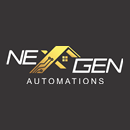
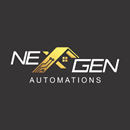
LG Content Store build: Nexgen Hotels identity, BACK exit, pointer focus, offline notice
The build submitted to LG Seller Lounge QA on 2026-10-27, after testing on
the office LG TV against LG's self-check list v5.0.

- Store identity: app id com.wattinventive.nexgenhotels, title "Nexgen
  Hotels", splash, launcher icons. largeIcon (130 px, used by the webOS 22
  launcher) showed only "NE" — both icons are now downscaled from the 512
  store icon. build-ipk.ps1 reads the app id from appinfo.json.
- No "coming soon" placeholders on LG (SHOW_COMING_SOON): LG QA fails buttons
  that do nothing. Netflix / Google Cast / Explore Hotel hidden; the Live TV
  tile becomes Feedback.
- BACK on the root screen calls platformBack(): with disableBackHistoryAPI the
  system did nothing, and LG requires the exit popup (webOS 6+) / Home (5.0).
- Magic Remote: the control under the pointer takes focus, so hover shows the
  D-pad ring and the arrows continue from there (text fields excluded).
- WiFi off/on: React Query paused fetches on the browser's offline event, so
  Food Order said "No dishes in this category yet." instead of a network
  error. networkMode 'always' (+ explicit refetchOnReconnect, which 'always'
  turns off) lets screens show their error state and reload on reconnect; the
  TV shows a persistent "No internet connection" card and "Back online.";
  the top bar keeps the cached greeting on a failed refetch.

Changed region(s): [[0.0308, 0.3385, 0.9538, 0.6462], [0.4615, 0.5231, 0.5231, 0.5538]]

diff --git a/src/components/Toast/ToastHost.tsx b/src/components/Toast/ToastHost.tsx
@@ -1,6 +1,7 @@
 import React, {useCallback, useEffect, useRef, useState} from 'react';
 import {Animated, Platform, Text, View} from 'react-native';
 import Icon from 'react-native-vector-icons/Ionicons';
+import {onlineManager} from '@tanstack/react-query';
 // Straight from the leaf module, not the `../TvGlass` barrel: that barrel also
 // re-exports TvChrome, which imports `toast` from here — an import cycle the
 // bundler would have to break at runtime. TvGlass.tsx itself imports nothing
@@ -8,7 +9,7 @@ import Icon from 'react-native-vector-icons/Ionicons';
 import {DS, FONT, GLASS_BLUR, GlassSheen, SHADOW} from '../TvGlass/TvGlass';
 import {useTheme} from '../../theme';
 import {IS_TV} from '../../utils/responsive';
-import {subscribeToToasts, type ToastItem} from './toast';
+import {subscribeToToasts, toast, type ToastItem} from './toast';
 
 const MAX_VISIBLE = 3;
 
@@ -38,7 +39,52 @@ const TV_ACCENT: Record<ToastItem['kind'], {solid: string; tint: string; edge: s
   info: {solid: DS.gold, tint: 'rgba(212,180,131,0.20)', edge: 'rgba(212,180,131,0.55)'},
 };
 
-function ToastCard({item, onDone}: {item: ToastItem; onDone: (id: number) => void}) {
+/**
+ * The TV's "no internet" notice. A toast-shaped card, but it stays up for as
+ * long as the network is gone: a timed toast would leave the guest staring at
+ * error states with nothing saying why once it faded.
+ */
+const OFFLINE_NOTICE: ToastItem = {
+  id: -1,
+  kind: 'error',
+  message: "No internet connection. Check the TV's network — the app reconnects by itself.",
+  duration: 0,
+};
+
+/**
+ * Online/offline as React Query hears it (window online/offline in the web
+ * builds; native never goes offline here). TV only — a phone has its own
+ * system indicator. Says "Back online" when the network returns, because the
+ * screens reload on their own and the guest should know that is why.
+ */
+function useTvOffline(): boolean {
+  const [offline, setOffline] = useState(() => IS_TV && !onlineManager.isOnline());
+  useEffect(() => {
+    if (!IS_TV) {
+      return;
+    }
+    return onlineManager.subscribe(online => {
+      setOffline(!online);
+      if (online) {
+        toast.success('Back online.');
+      }
+    });
+  }, []);
+  return offline;
+}
+
+function ToastCard({
+  item,
+  onDone,
+  persistent = false,
+  icon,
+}: {
+  item: ToastItem;
+  onDone?: (id: number) => void;
+  /** Stays until unmounted instead of fading after `item.duration`. */
+  persistent?: boolean;
+  icon?: string;
+}) {
   const {theme, scheme} = useTheme();
   // Core Animated only — reanimated does not initialise reliably in the
   // webpack/webOS bundle (see Skeleton.tsx).
@@ -51,13 +97,16 @@ function ToastCard({item, onDone}: {item: ToastItem; onDone: (id: number) => voi
       Animated.timing(opacity, {toValue: 1, duration: 180, useNativeDriver: useNative}),
       Animated.timing(translate, {toValue: 0, duration: 180, useNativeDriver: useNative}),
     ]).start();
+    if (persistent) {
+      return;
+    }
     const timer = setTimeout(() => {
       Animated.timing(opacity, {toValue: 0, duration: 220, useNativeDriver: useNative}).start(
-        () => onDone(item.id),
+        () => onDone?.(item.id),
       );
     }, item.duration);
     return () => clearTimeout(timer);
-  }, [item, opacity, translate, onDone]);
+  }, [item, opacity, translate, onDone, persistent]);
 
   const tv = TV_ACCENT[item.kind];
   const accent = IS_TV
@@ -140,10 +189,10 @@ function ToastCard({item, onDone}: {item: ToastItem; onDone: (id: number) => voi
             borderWidth: 1,
             borderColor: tv.edge,
           }}>
-          <Icon name={KIND_ICON[item.kind]} size={17} color={accent} />
+          <Icon name={icon ?? KIND_ICON[item.kind]} size={17} color={accent} />
         </View>
       ) : (
-        <Icon name={KIND_ICON[item.kind]} size={20} color={accent} />
+        <Icon name={icon ?? KIND_ICON[item.kind]} size={20} color={accent} />
       )}
       <Text
         style={{
@@ -168,6 +217,7 @@ function ToastCard({item, onDone}: {item: ToastItem; onDone: (id: number) => voi
  */
 export function ToastHost() {
   const [items, setItems] = useState<ToastItem[]>([]);
+  const offline = useTvOffline();
 
   useEffect(
     () =>
@@ -182,7 +232,7 @@ export function ToastHost() {
     [],
   );
 
-  if (items.length === 0) {
+  if (items.length === 0 && !offline) {
     return null;
   }
 
@@ -200,6 +250,7 @@ export function ToastHost() {
         right: 20,
         zIndex: 1000,
       }}>
+      {offline ? <ToastCard item={OFFLINE_NOTICE} persistent icon="cloud-offline-outline" /> : null}
       {items.map(item => (
         <ToastCard key={item.id} item={item} onDone={remove} />
       ))}

diff --git a/src/services/webosRemote.web.ts b/src/services/webosRemote.web.ts
@@ -10,8 +10,9 @@
  * Handled keys:
  *   37/38/39/40  arrows  -> spatial focus move
  *   13           OK      -> left to the browser (activates the focused element)
- *   461 / 10009  Back    -> pop one screen. At the root: webOS closes the app;
- *                           Tizen swallows it (see the keydown handler).
+ *   461 / 10009  Back    -> pop one screen. At the root: webOS platformBack()
+ *                           (exit popup / Home); Tizen swallows it (see the
+ *                           keydown handler).
  *
  * Arrows, OK and Back reach a Tizen web app without `tvinputdevice.registerKey`;
  * only media / colour keys need registering.
@@ -30,6 +31,17 @@ const KEY_OK = 13;
 const KEY_BACK_WEBOS = 461;
 /** Samsung Tizen remote's Back button ("Return"). */
 const KEY_BACK_TIZEN = 10009;
+
+/**
+ * webOSTV.js's `webOS.platformBack()`, without bundling the library — it only
+ * forwards to the WebAppManager bridge, exactly like this.
+ */
+function platformBack(): void {
+  const palm = (window as unknown as {PalmSystem?: {platformBack?: () => void}}).PalmSystem;
+  if (palm && palm.platformBack) {
+    palm.platformBack();
+  }
+}
 
 type Direction = 'left' | 'up' | 'right' | 'down';
 
@@ -361,6 +373,24 @@ export function installWebOSRemote(): void {
     true,
   );
 
+  // Magic Remote pointer: the control under the cursor takes focus, so it shows
+  // the same ring the D-pad gives (LG self-check "Mouse Over/Focus") and the
+  // arrow keys carry on from where the pointer left off. Text fields are left
+  // alone — focusing one opens the webOS on-screen keyboard.
+  document.addEventListener('mouseover', event => {
+    const target = event.target instanceof Element ? event.target : null;
+    const control = target?.closest<HTMLElement>(FOCUSABLE_SELECTOR);
+    if (
+      !control ||
+      control === document.activeElement ||
+      control.matches('input, textarea, select') ||
+      !isVisible(control)
+    ) {
+      return;
+    }
+    control.focus({preventScroll: true});
+  });
+
   document.addEventListener(
     'keydown',
     event => {
@@ -372,12 +402,15 @@ export function installWebOSRemote(): void {
         // Priority 2: pop the navigator (React Navigation is not wired to
         // browser history — history.back() would exit the app from anywhere).
         // At the root with nothing open:
-        //  - webOS: let the press through; webOS closes the app, which is what
-        //    LG expects from Back.
+        //  - webOS: platformBack(). appinfo sets disableBackHistoryAPI, so the
+        //    system does nothing on its own — LG requires the entry screen to
+        //    show the exit popup (webOS 6+) or open Home (5.0), and
+        //    platformBack() is what triggers that platform behaviour.
         //  - Tizen: swallow it. In a hotel the app IS the TV's home screen, so
         //    Back at the root must not leave it.
-        if (closeTopModal() || goBackIfPossible() || IS_TIZEN) {
-          event.preventDefault();
+        event.preventDefault();
+        if (!closeTopModal() && !goBackIfPossible() && !IS_TIZEN) {
+          platformBack();
         }
       }
 

diff --git a/src/screens/Home/TvDashboardScreen.tsx b/src/screens/Home/TvDashboardScreen.tsx
@@ -39,6 +39,7 @@ import {CurtainControl} from './components/CurtainControl';
 import {useAuth} from '../../store/AuthContext';
 import {useTvPresence} from '../../store/TvPresenceContext';
 import {getApiErrorMessage} from '../../utils/errorHandler';
+import {SHOW_COMING_SOON} from '../../utils/responsive';
 import type {RoomDevice} from '../../models/device.model';
 import type {HomeStackParamList} from '../../navigation/types';
 
@@ -364,7 +365,9 @@ export function TvDashboardScreen({navigation}: Props) {
               <Text style={{color: DS.text2, fontSize: 13, marginTop: 6, fontFamily: FONT}}>
                 We are at your service
               </Text>
-              {/* spec PRIMARY BUTTON: gold bg, white text, 56 → 37 high */}
+              {/* spec PRIMARY BUTTON: gold bg, white text, 56 → 37 high.
+                  Still a placeholder, so not on LG (see SHOW_COMING_SOON). */}
+              {SHOW_COMING_SOON ? (
               <TvPressable
                 onPress={comingSoon}
                 label="Explore hotel (coming soon)"
@@ -391,6 +394,7 @@ export function TvDashboardScreen({navigation}: Props) {
                 </Text>
                 <Icon name="chevron-forward" size={14} color={DS.text} style={{marginLeft: 6}} />
               </TvPressable>
+              ) : null}
             </View>
           </View>
 
@@ -467,7 +471,7 @@ export function TvDashboardScreen({navigation}: Props) {
                 icon="sunny-outline"
                 onPress={() => navigation.navigate('MyDay')}
               />
-            ) : (
+            ) : SHOW_COMING_SOON ? (
               <Tile
                 title="Live TV"
                 subtitle="Watch your favourite"
@@ -475,6 +479,15 @@ export function TvDashboardScreen({navigation}: Props) {
                 icon="tv-outline"
                 soon
                 onPress={comingSoon}
+              />
+            ) : (
+              // LG: a real feature keeps the 4 × 2 grid whole instead of a
+              // placeholder its store QA would fail (see SHOW_COMING_SOON).
+              <Tile
+                title="Feedback"
+                subtitle="Tell us about your stay"
+                icon="chatbubble-ellipses-outline"
+                onPress={() => navigation.navigate('Feedback')}
               />
             )}
           </View>

diff --git a/src/components/TvGlass/TvChrome.tsx b/src/components/TvGlass/TvChrome.tsx
@@ -10,6 +10,7 @@ import {NoSmokingIcon} from './RoomIcons';
 import {useDashboardViewModel} from '../../viewmodels';
 import {useFoodOrder} from '../../store/FoodOrderContext';
 import {getDisplayName} from '../../models/user.model';
+import {SHOW_COMING_SOON} from '../../utils/responsive';
 
 import nexgenLogo from '../../assets/tv/nexgen-logo.png';
 
@@ -199,14 +200,20 @@ export function TvTopBar({onMenu}: {onMenu?: () => void}) {
           label="View Bill"
           onPress={() => rootNavigate('Home', {screen: 'ViewBill'})}
         />
-        <TopChip iconNode={<NetflixIcon />} label="Netflix" onPress={comingSoon} />
-        <TopChip iconNode={<CastIcon />} label="Google Cast" onPress={comingSoon} />
+        {SHOW_COMING_SOON ? (
+          <>
+            <TopChip iconNode={<NetflixIcon />} label="Netflix" onPress={comingSoon} />
+            <TopChip iconNode={<CastIcon />} label="Google Cast" onPress={comingSoon} />
+          </>
+        ) : null}
       </View>
 
       <View style={{flex: 1, alignItems: 'center'}}>
         {dash.isLoading ? (
           <ActivityIndicator color={DS.gold} />
-        ) : dash.profileError ? (
+        ) : dash.profileError && !dash.user ? (
+          // Only when there is no greeting to show: a refetch that fails while
+          // the TV is offline keeps the cached guest (the offline notice says why).
           <Text style={{color: DS.danger, fontSize: 13, fontWeight: '600', fontFamily: FONT}}>
             Could not load profile
           </Text>

diff --git a/src/services/queryClient.ts b/src/services/queryClient.ts
@@ -1,5 +1,22 @@
 import {QueryClient} from '@tanstack/react-query';
 
+/**
+ * `networkMode: 'always'` — never pause on the browser's offline flag.
+ *
+ * In the web (TV) builds React Query listens to window online/offline, and in
+ * its default 'online' mode a fetch started while offline is PAUSED: not
+ * loading, not an error, no data. Every screen read that as "nothing here" —
+ * Food Order said "No dishes in this category yet." with the TV's WiFi off, so
+ * the guest blamed the menu, not the network (LG QA unplugs the network). Now
+ * the request runs, fails, and the screen shows its own error state ("No
+ * internet connection…" + Try again), and `refetchOnReconnect` reloads it the
+ * moment the network is back — set explicitly, because 'always' turns its
+ * default off (query-core: `refetchOnReconnect = networkMode !== 'always'`).
+ * A paused mutation (laundry order, facility
+ * booking, feedback) would sit "sending" until the network returned, so
+ * mutations fail fast too. Native builds never see an offline event, so
+ * nothing changes there.
+ */
 export const queryClient = new QueryClient({
   defaultOptions: {
     queries: {
@@ -7,9 +24,12 @@ export const queryClient = new QueryClient({
       staleTime: 30_000,
       gcTime: 5 * 60_000,
       refetchOnWindowFocus: false,
+      networkMode: 'always',
+      refetchOnReconnect: true,
     },
     mutations: {
       retry: 0,
+      networkMode: 'always',
     },
   },
 });

diff --git a/src/utils/responsive.ts b/src/utils/responsive.ts
@@ -39,6 +39,15 @@ export const IS_TV: boolean = Platform.isTV === true || IS_WEBOS || IS_TIZEN;
  */
 export const IS_WEB_BUILD: boolean = Platform.OS === 'web';
 
+/**
+ * Whether the TV shows its "coming soon" placeholders (Netflix, Google Cast,
+ * Explore Hotel, Live TV). Not on LG: the webOS build ships through the LG
+ * Content Store, whose QA fails any button that does nothing ("all UI buttons
+ * work properly", self-check 1.4) — and LG TVs have no Google Cast at all.
+ * Samsung and Android TV keep them for the client's presentation.
+ */
+export const SHOW_COMING_SOON: boolean = !IS_WEBOS;
+
 export type DeviceType = 'phone' | 'tablet' | 'tv';
 
 // Baseline device width the design tokens were authored against.

diff --git a/WEBOS_BUILD.md b/WEBOS_BUILD.md
@@ -24,7 +24,7 @@ src/  ──┬── Metro   → app-release.apk  (phone, Android TV)
 npm run ipk
 ```
 
-Output: `dist-webos/com.wattinventive.weblink_1.0.0_all.ipk` (~0.75 MB).
+Output: `dist-webos/com.wattinventive.nexgenhotels_1.0.0_all.ipk` (~0.75 MB).
 
 Other commands:
 
@@ -52,8 +52,8 @@ The TV must be in **Developer Mode** first. This is LG's process, not ours:
    Add a device with the TV's IP (port 9922, user `prisoner`) and the passphrase.
 5. Install and launch:
    ```powershell
-   npx ares-install dist-webos/com.wattinventive.weblink_1.0.0_all.ipk
-   npx ares-launch com.wattinventive.weblink
+   npx ares-install dist-webos/com.wattinventive.nexgenhotels_1.0.0_all.ipk
+   npx ares-launch com.wattinventive.nexgenhotels
    ```
    or in one step: `npm run ipk:install`.
 
@@ -66,7 +66,7 @@ The TV must be in **Developer Mode** first. This is LG's process, not ours:
 > reloading it — `ares-install` over a running instance succeeds but the OLD
 > code stays on screen until the app is closed. `npm run ipk:install` handles
 > this (close → install → launch); doing it by hand, run
-> `npx ares-launch --close com.wattinventive.weblink` before installing.
+> `npx ares-launch --close com.wattinventive.nexgenhotels` before installing.
 
 ### Registering a device, changing its IP, adding another TV
 
@@ -145,7 +145,7 @@ packaging is the same, the distribution channel is not.
 ### Debugging on the TV
 
 ```powershell
-npx ares-inspect --app com.wattinventive.weblink --open
+npx ares-inspect --app com.wattinventive.nexgenhotels --open
 ```
 
 A startup crash also paints its stack trace directly onto the screen — see the
